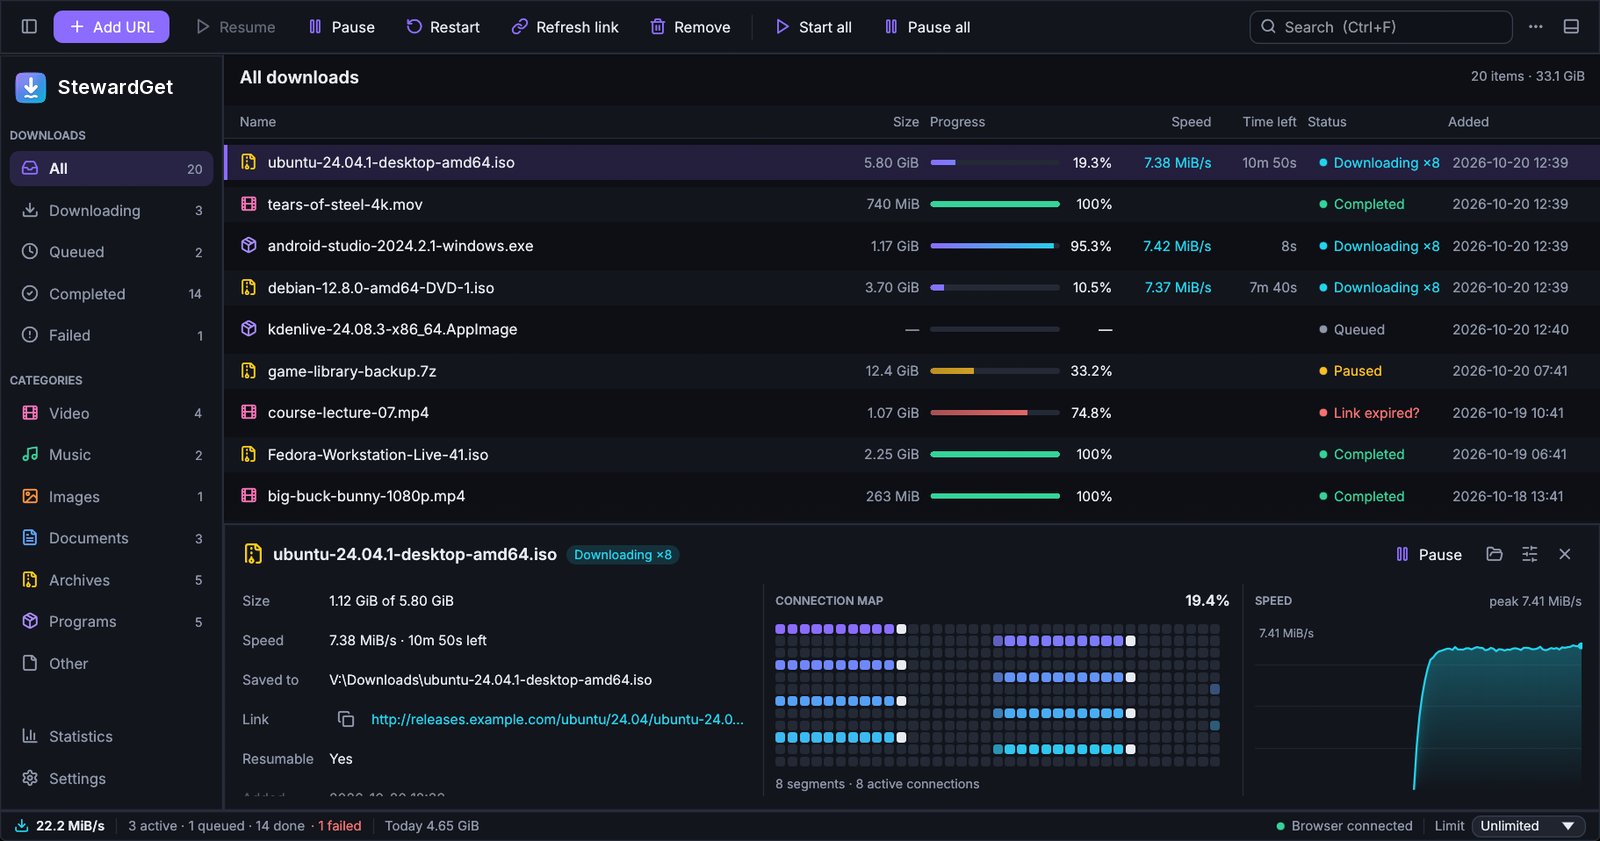
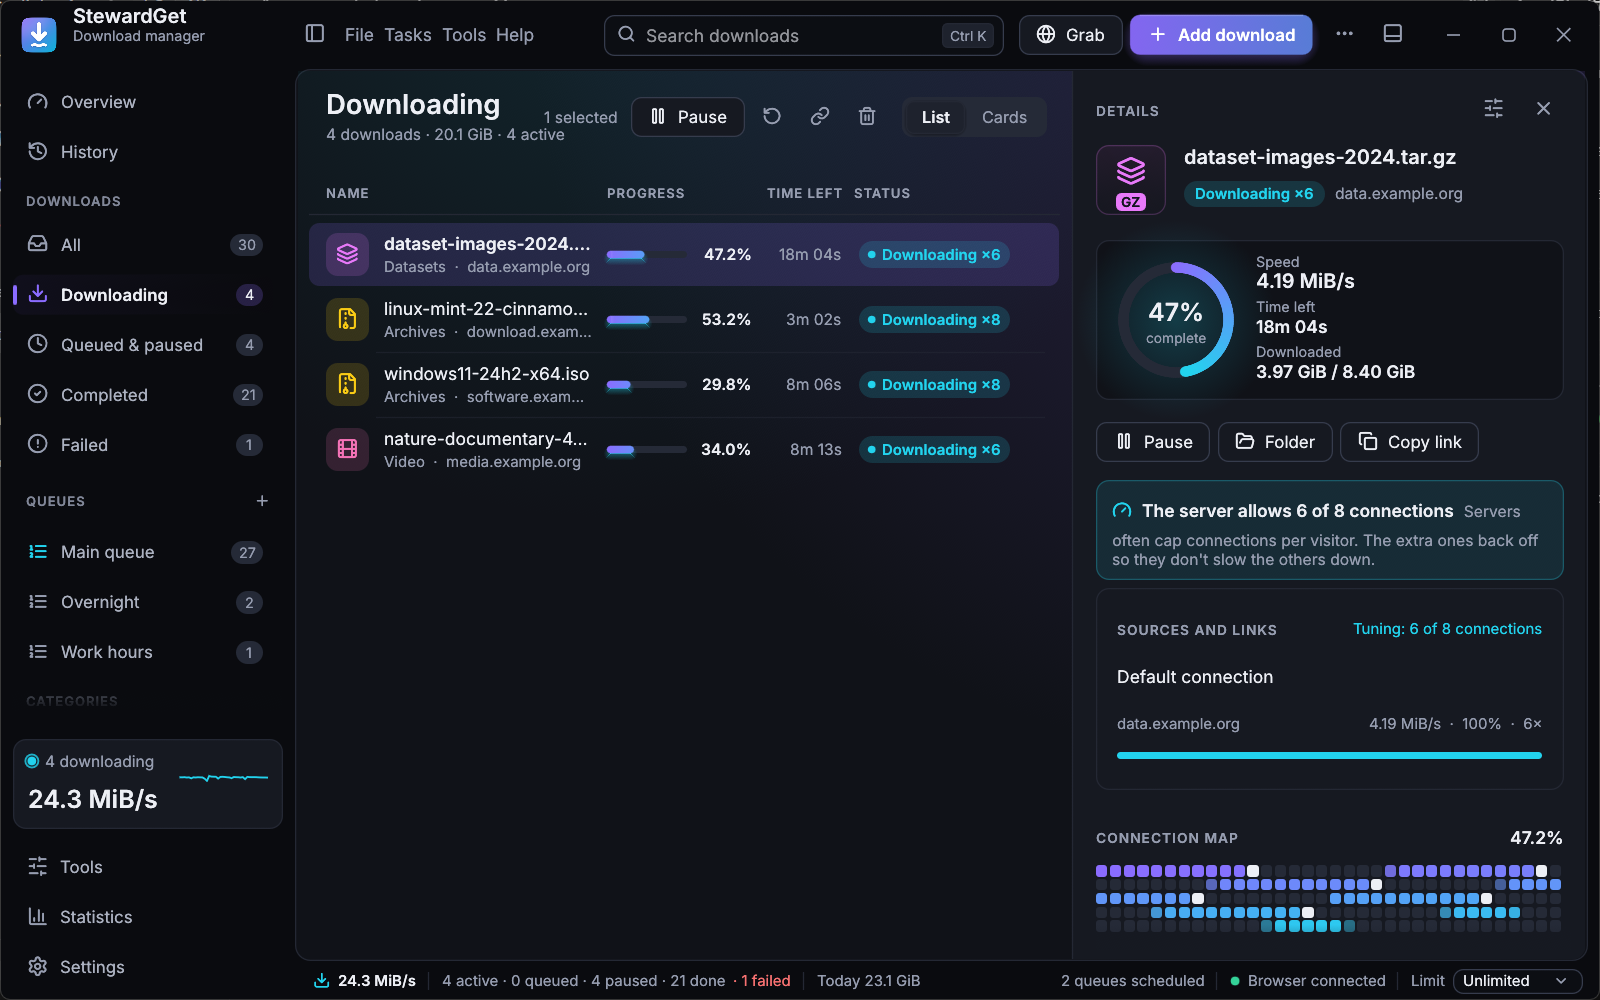
Refresh the README screenshots
Retake the screenshots from the current app using demo data and add the
overview, cards, history, queues, notifications, categories, tools,
progress window and light theme. Rebuild the hero image.

diff --git a/README.md b/README.md
@@ -53,12 +53,26 @@ StewardGet keeps everything that made IDM great and fixes the rest.
 
 ## Screenshots
 
+All screenshots show demo data.
+
 | | |
 |---|---|
-| ![Adding a download: the link is checked first](docs/images/add-dialog.png) | ![Statistics](docs/images/statistics.png) |
-| **Add** — the link is checked before downloading: real name, size, resume support, free space, duplicates. | **Statistics** — 30-day history, live throughput, categories and sources. Stored only on your device. |
-| ![An expired link with partial data kept](docs/images/refresh-link.png) | ![Themes and accent colours](docs/images/appearance.png) |
-| **Refresh link** — an expired link never costs you the 75 % already downloaded. | **Appearance** — five themes, six accents, interface zoom. |
+| ![Overview: live speed, today, last 7 days and the monthly data cap](docs/images/overview.png) | ![Downloads with the inspector: live connection map and speed](docs/images/main-dark.png) |
+| **Overview** — live speed, today and 7-day totals, monthly data cap, what is running and what just finished. | **Downloads** — the inspector shows the connection map, speed history and sources of the selected download. |
+| ![The light theme](docs/images/main-light.png) | ![Card view](docs/images/cards.png) |
+| **Light theme** — five themes and six accents. | **Card view** — speed, progress and disk space at a glance. |
+| ![Adding a download: the link is checked first](docs/images/add-dialog.png) | ![Progress window](docs/images/progress.png) |
+| **Add** — the link is checked first: real name, size, resume support, free space, duplicates. | **Progress window** — a small window per download with the per-connection bar. |
+| ![History](docs/images/history.png) | ![Statistics](docs/images/statistics.png) |
+| **History** — every finished download stays searchable, with filters by time and type. | **Statistics** — 30-day history, live throughput and a six-month calendar. Stored only on your device. |
+| ![Queues](docs/images/queues.png) | ![Queue schedules and limits](docs/images/scheduler.png) |
+| **Queues** — each with its own order, limit and schedule. | **Queues & schedule** — start and pause times, weekdays and speed caps per queue. |
+| ![Phone and email notifications](docs/images/notifications.png) | ![Categories](docs/images/categories.png) |
+| **Notifications** — Gotify, ntfy or email when downloads finish or fail. | **Categories** — your own categories and folders by file type. |
+| ![Tools](docs/images/tools.png) | ![Themes and accent colours](docs/images/appearance.png) |
+| **Tools** — duplicate finder, link checker, leftovers and backup. | **Appearance** — themes, accents, interface zoom, compact rows. |
+| ![An expired link with partial data kept](docs/images/refresh-link.png) | ![Statistics in the light theme](docs/images/statistics-light.png) |
+| **Refresh link** — an expired link never costs you the 75 % already downloaded. | **Statistics (light)** |
 
 ## Features
 
